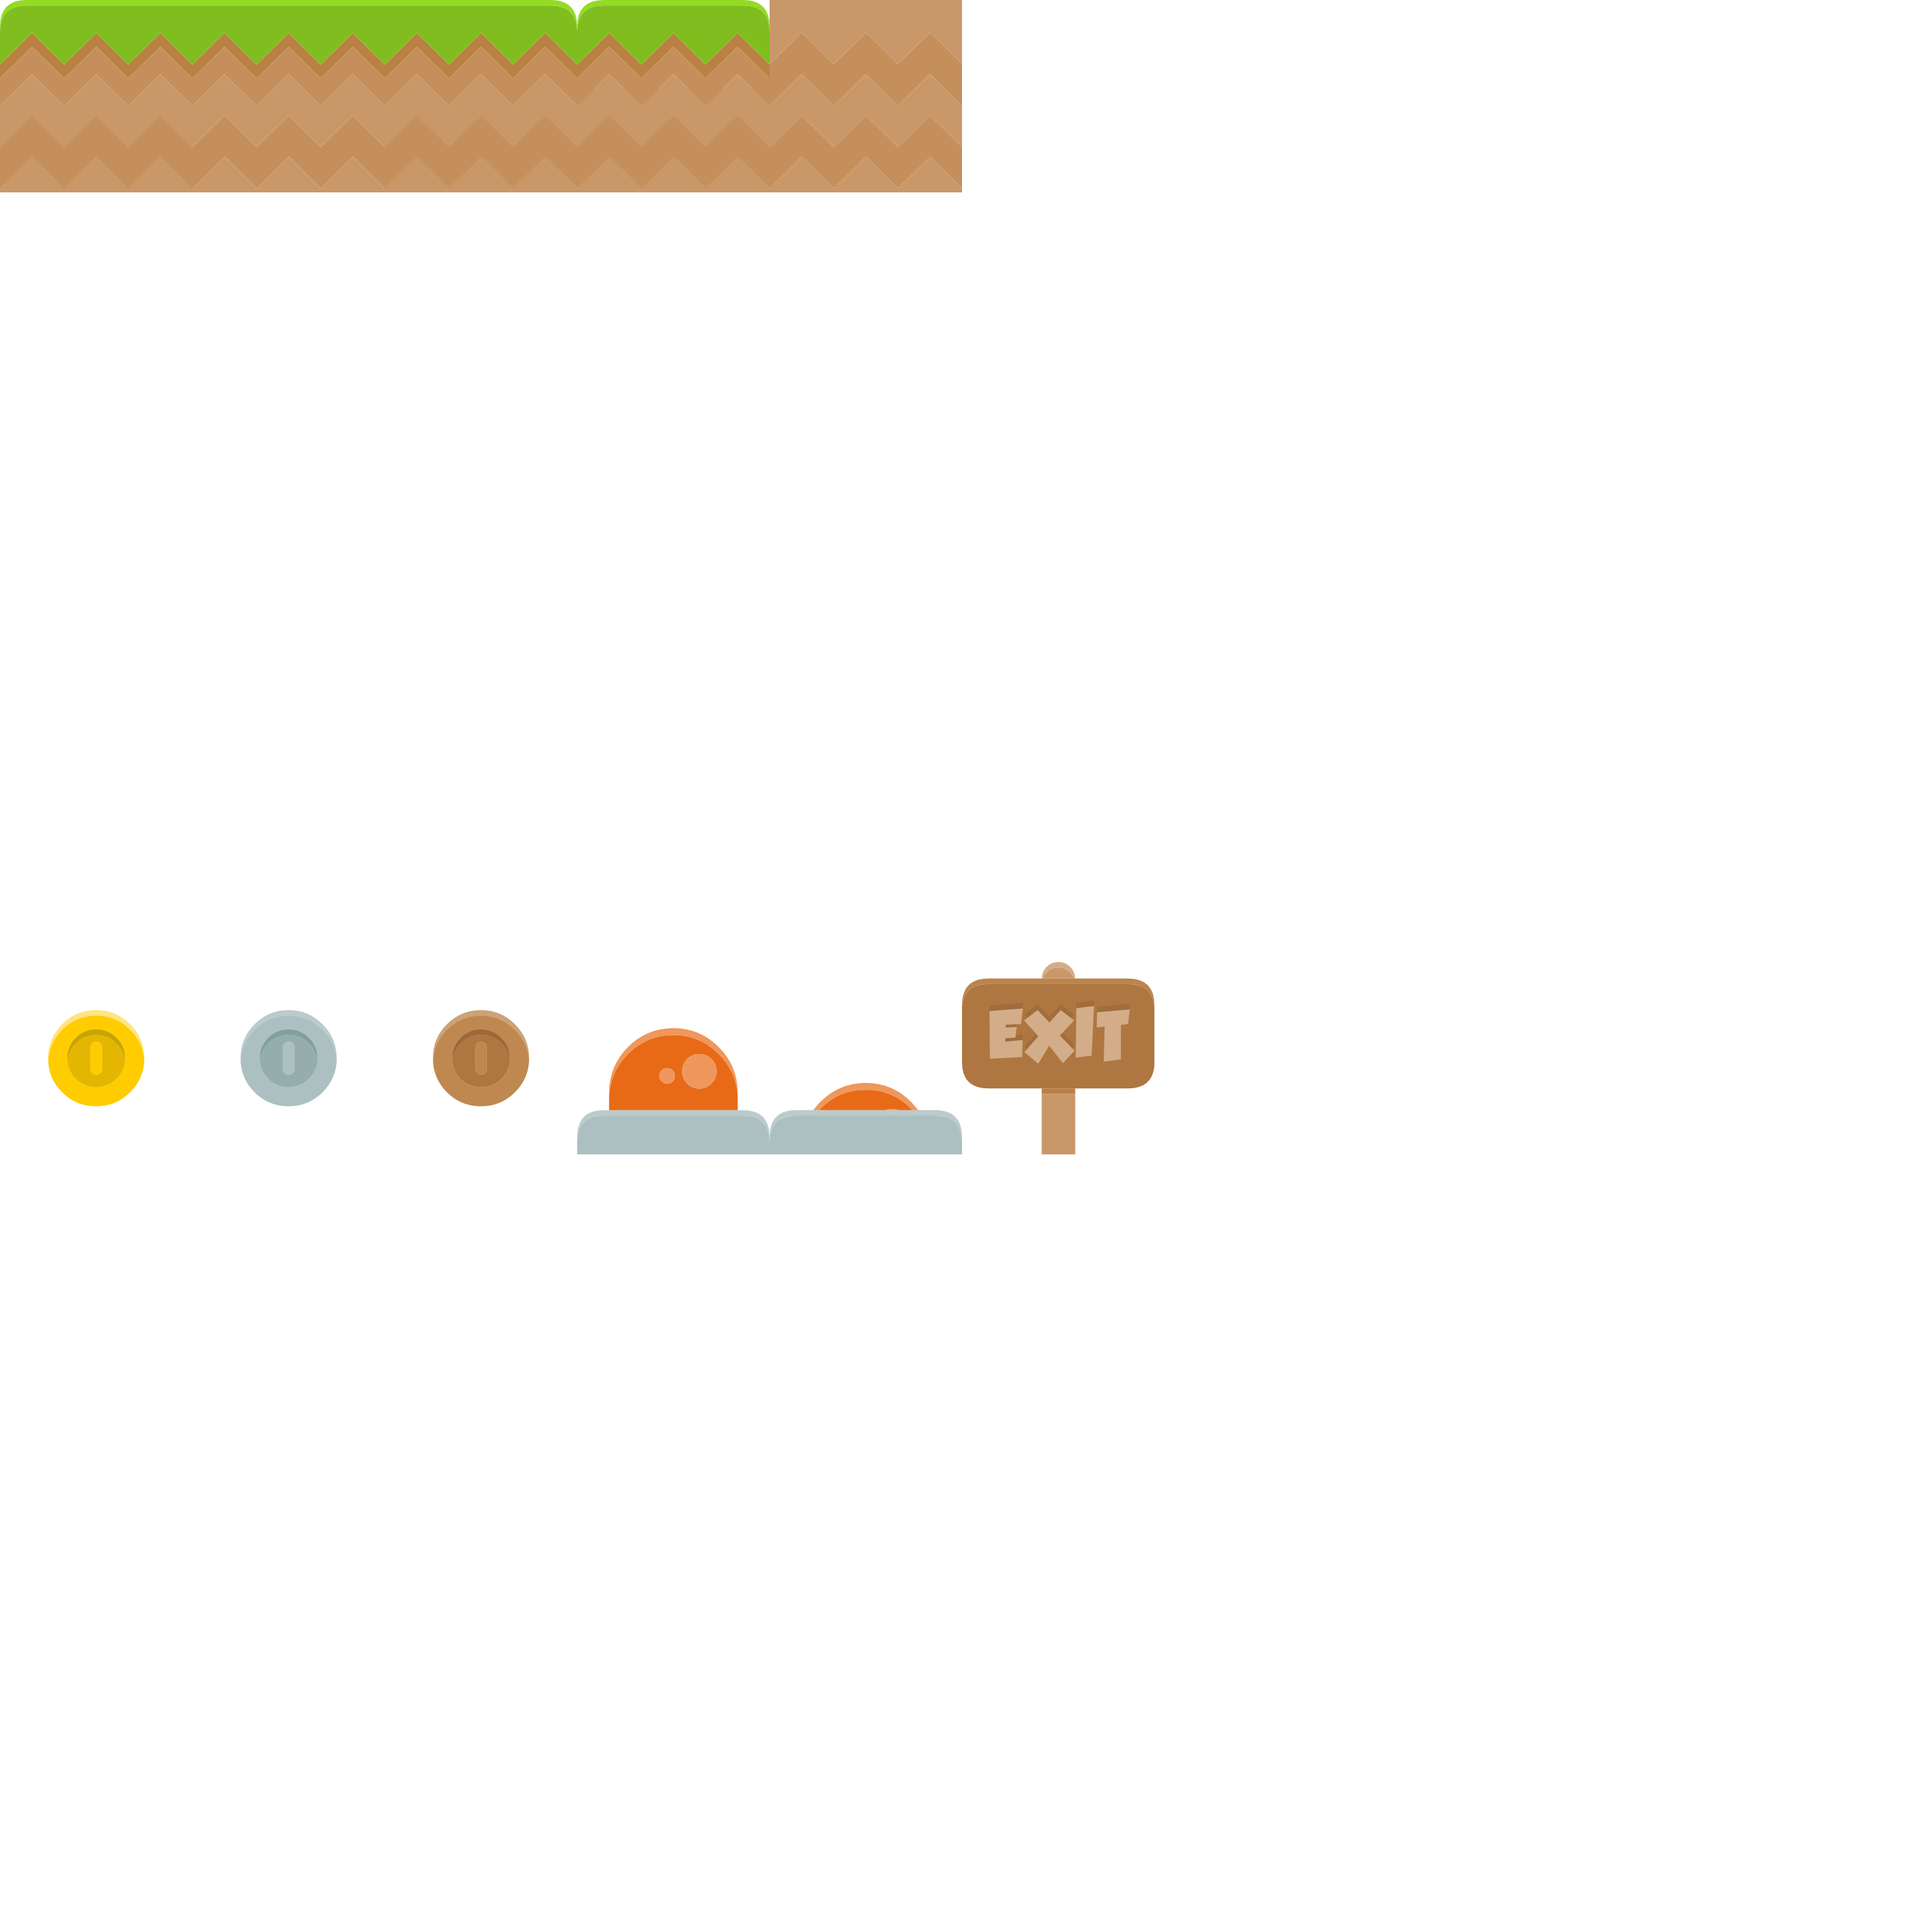
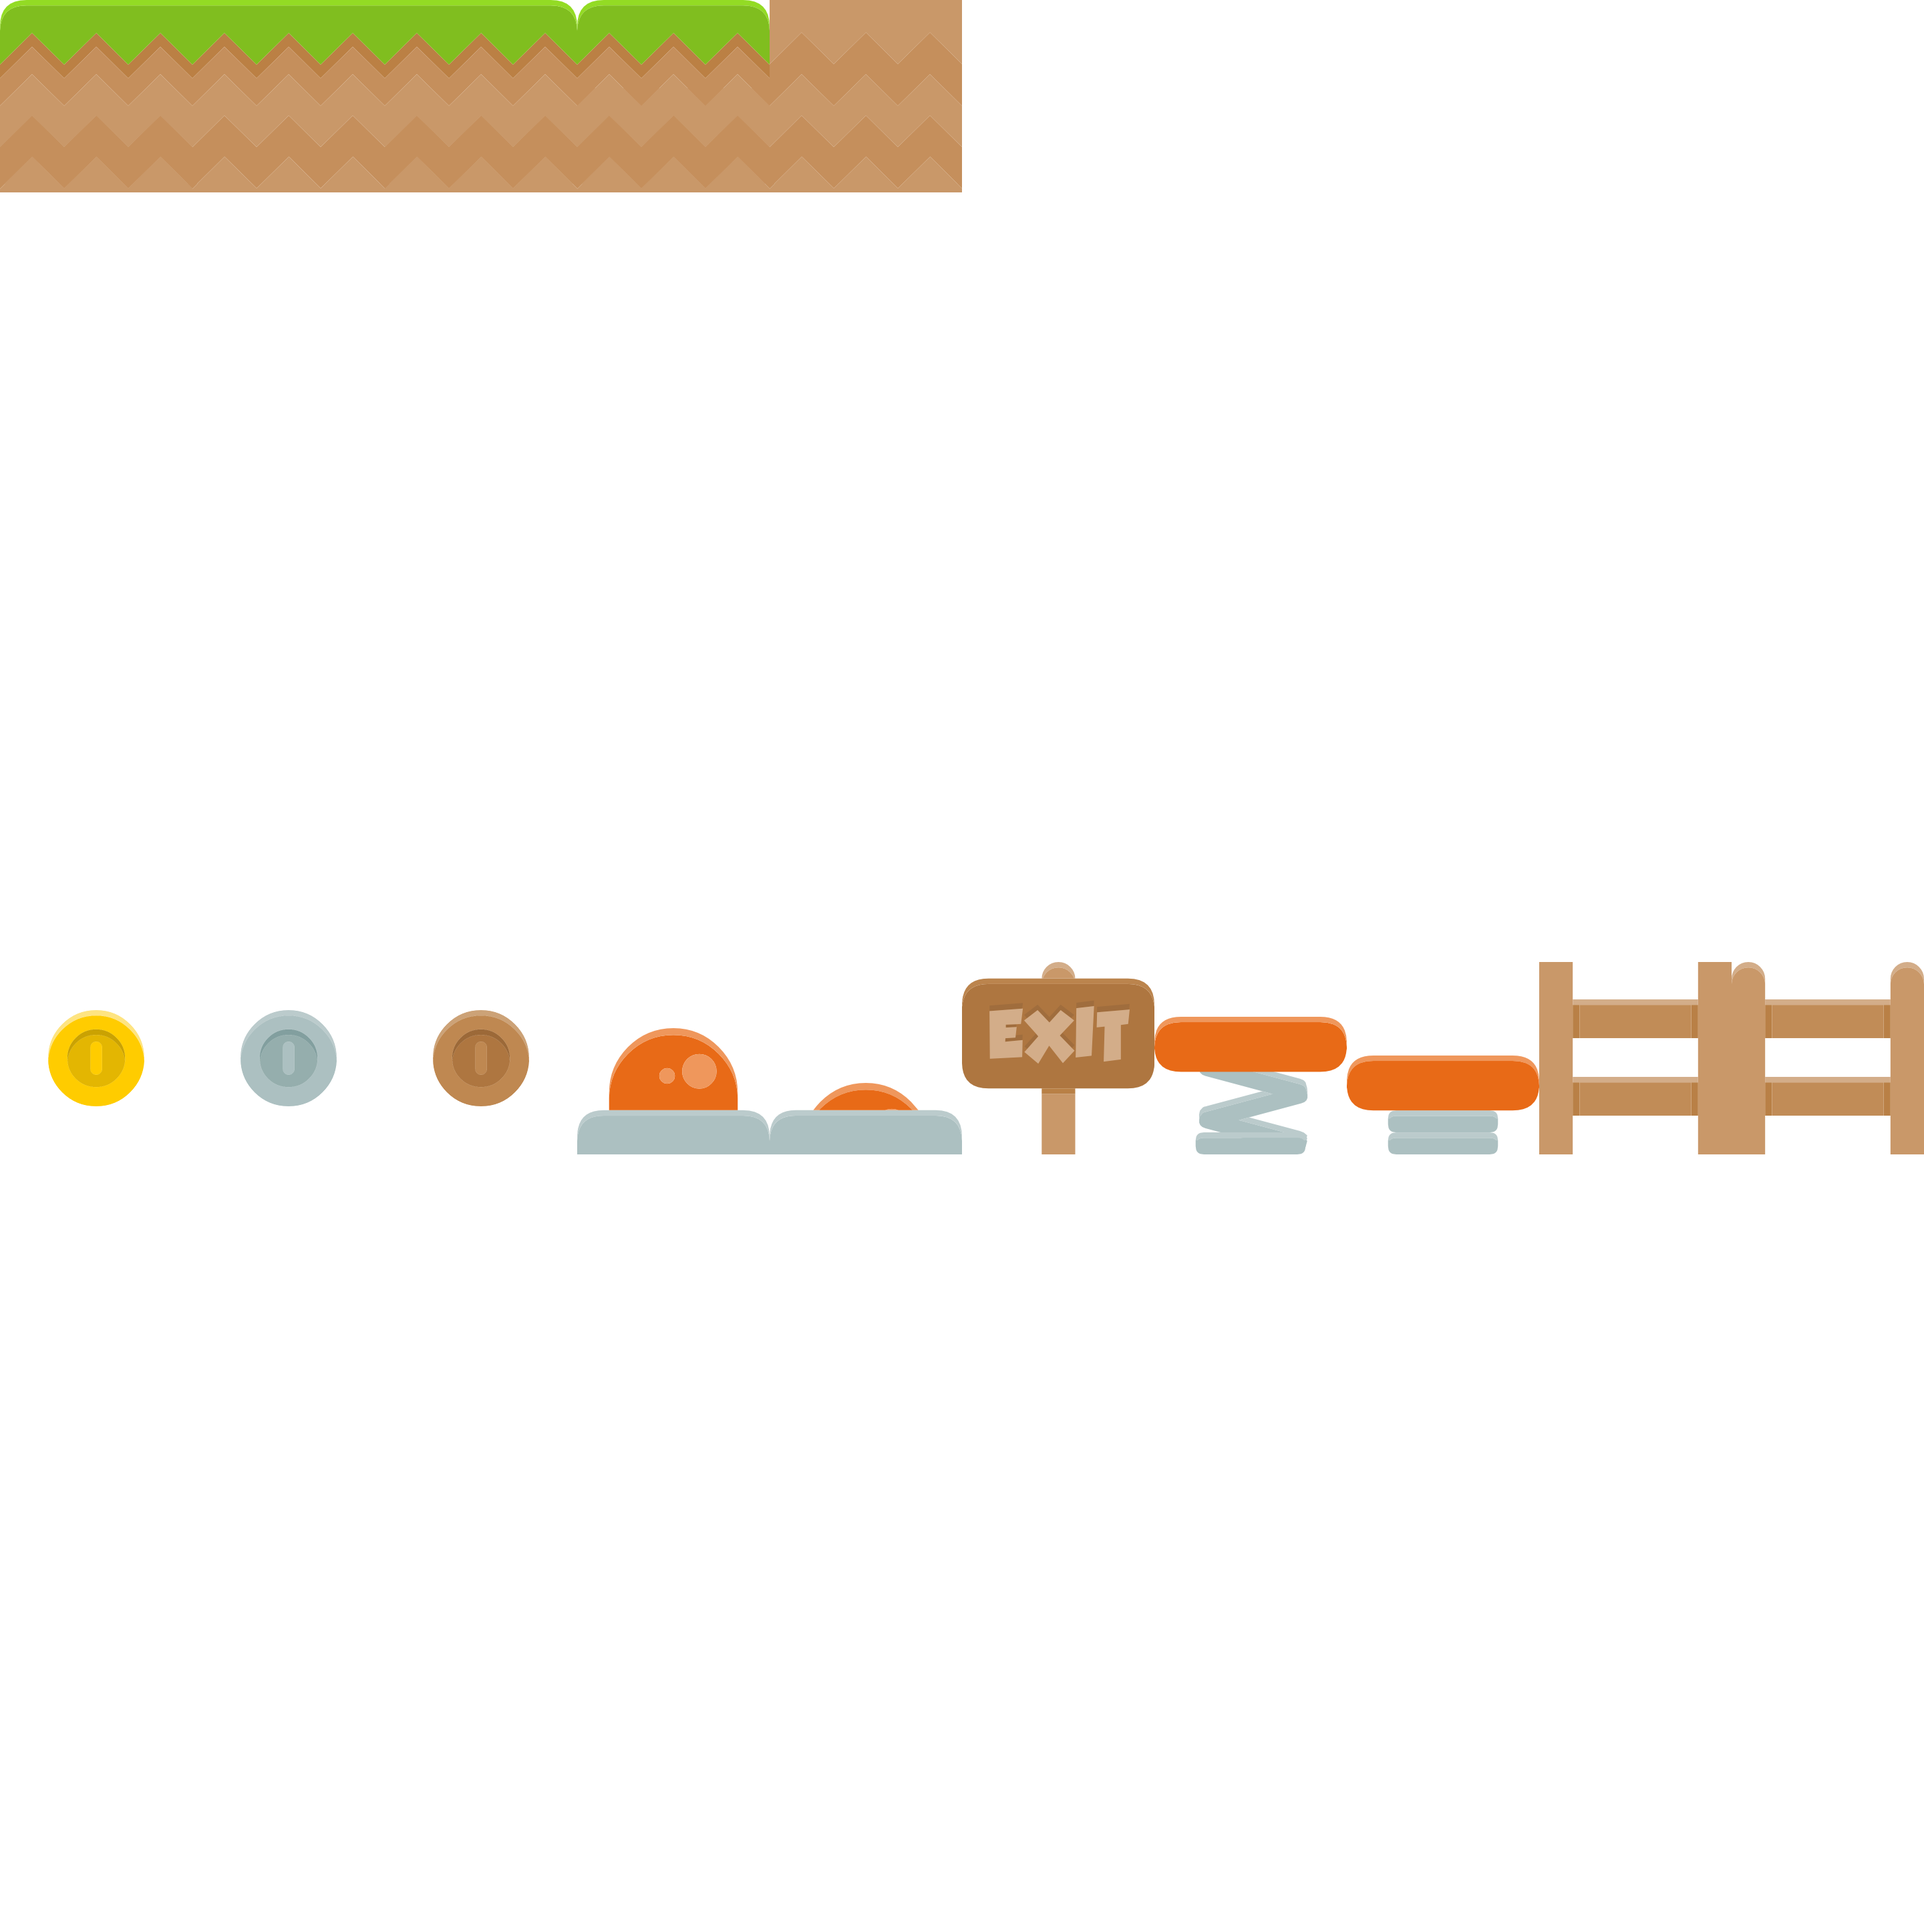
Sprungfeder hinzugefügt

Changed region(s): [[0.5938, 0.5, 1.0, 0.625]]

diff --git a/src/game.c b/src/game.c
@@ -47,7 +47,7 @@ int worldSizeY;
 int blockSize;
 double a;
 struct {int x;} camPosition;
-
+unsigned int score;
 
 void blockDraw(SDL_Surface *screen, SDL_Surface *bitmap, int x, int y, int blocktype)
 {
@@ -109,7 +109,6 @@ void objectAppend(struct objectListElement **lst, struct object *object)
 		*lst=newElement;
 	}
 }
-
 
 void objectDraw(SDL_Surface *screen, struct object *object)
 {
@@ -207,28 +206,32 @@ unsigned char objectCollisionToObject(struct object *object1, struct object *obj
 {
 	unsigned char hitbox = 0;
 
-	if( object1->posX                  >= object2->posX                  &&
-	    object1->posX                  <= object2->posX + object2->sizeX &&
-	    object1->posY                  >= object2->posY                  &&
-	    object1->posY                  <= object2->posY + object2->sizeY    )
+	// Oben-Links
+	if( object1->posX                  +1 >= object2->posX                  &&
+	    object1->posX                  +1 <= object2->posX + object2->sizeX &&
+	    object1->posY                  +1 >= object2->posY                  &&
+	    object1->posY                  +1 <= object2->posY + object2->sizeY    )
 	{hitbox += 1;}
 
-	if( object1->posX + object1->sizeX >= object2->posX                  &&
-	    object1->posX + object1->sizeX <= object2->posX + object2->sizeX &&
-	    object1->posY                  >= object2->posY                  &&
-	    object1->posY                  <= object2->posY + object2->sizeY    )
+	// Oben-Rechts
+	if( object1->posX + object1->sizeX -1 >= object2->posX                  &&
+	    object1->posX + object1->sizeX -1 <= object2->posX + object2->sizeX &&
+	    object1->posY                  +1 >= object2->posY                  &&
+	    object1->posY                  +1 <= object2->posY + object2->sizeY    )
 	{hitbox += 2;}
 
-	if( object1->posX                  >= object2->posX                  &&
-	    object1->posX                  <= object2->posX + object2->sizeX &&
-	    object1->posY + object1->sizeY >= object2->posY                  &&
-	    object1->posY + object1->sizeY <= object2->posY + object2->sizeY    )
+	// Unten-Links
+	if( object1->posX                  +1 >= object2->posX                  &&
+	    object1->posX                  +1 <= object2->posX + object2->sizeX &&
+	    object1->posY + object1->sizeY -1 >= object2->posY                  &&
+	    object1->posY + object1->sizeY -1 <= object2->posY + object2->sizeY    )
 	{hitbox += 4;}
 
-	if( object1->posX + object1->sizeX >= object2->posX                  &&
-	    object1->posX + object1->sizeX <= object2->posX + object2->sizeX &&
-	    object1->posY + object1->sizeY >= object2->posY                  &&
-	    object1->posY + object1->sizeY <= object2->posY + object2->sizeY    )
+	// Unten-Rechts
+	if( object1->posX + object1->sizeX -1 >= object2->posX                  &&
+	    object1->posX + object1->sizeX -1 <= object2->posX + object2->sizeX &&
+	    object1->posY + object1->sizeY -1 >= object2->posY                  &&
+	    object1->posY + object1->sizeY -1 <= object2->posY + object2->sizeY    )
 	{hitbox += 8;}
 
 	return hitbox;
@@ -363,7 +366,7 @@ int startGame(SDL_Surface *screen, SDL_Event event, struct resolution res, int l
 	struct object *enemy;
 
 	int counter = 0;
-	for(counter = 0; counter < 50; counter++)
+	for(counter = 0; counter < 1; counter++)
 	{
 		enemy = (struct object*) malloc(sizeof(*enemy));
 
@@ -430,15 +433,34 @@ int startGame(SDL_Surface *screen, SDL_Event event, struct resolution res, int l
 				playerBlockY = (player.posY + player.sizeY / 2) / blockSize;
 				switch(world[playerBlockY][playerBlockX])
 				{
+					// Goldene Münze
 					case 50:
 						world[playerBlockY][playerBlockX] = 255;
+						score++;
+						printf("Score: %u\n", score);
 						break;
+
+					// Roter Schalter
 					case 53:
 						if(player.v > 0)
 						{world[playerBlockY][playerBlockX] = 54;}
 						break;
+
+					// Levelausgang
 					case 55:
 						return 0;
+						break;
+
+					// Sprungfeder (Oben)
+					case 56:
+						if(player.v > 0)
+						{world[playerBlockY][playerBlockX] = 57;}
+						break;
+
+					// Sprungfeder (Unten)
+					case 57:
+						player.v = 2 * -9 * ((double) blockSize / 48);
+						world[playerBlockY][playerBlockX] = 56;
 						break;
 				}
 
@@ -452,7 +474,16 @@ int startGame(SDL_Surface *screen, SDL_Event event, struct resolution res, int l
 
 					if(hitbox) 
 					{
-						liste->object->moveDir = -liste->object->moveDir;
+						if((hitbox == 4 || hitbox == 8 || hitbox == 12) && player.v != 0)
+						{
+							player.v = -9 * ((double) blockSize / 48);
+							printf("Gegner besiegt!!\n");
+						}
+						else
+						{
+							liste->object->moveDir = -liste->object->moveDir;
+							printf("Verloren!!\n");
+						}
 					}
 				}
 
